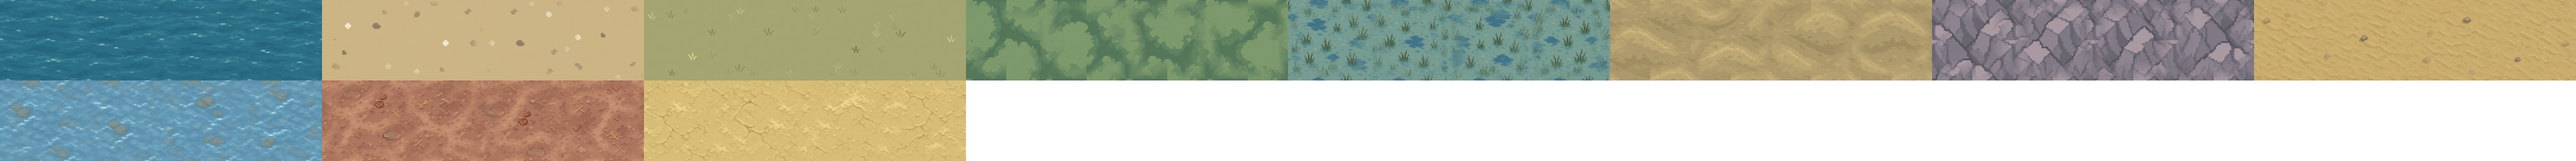
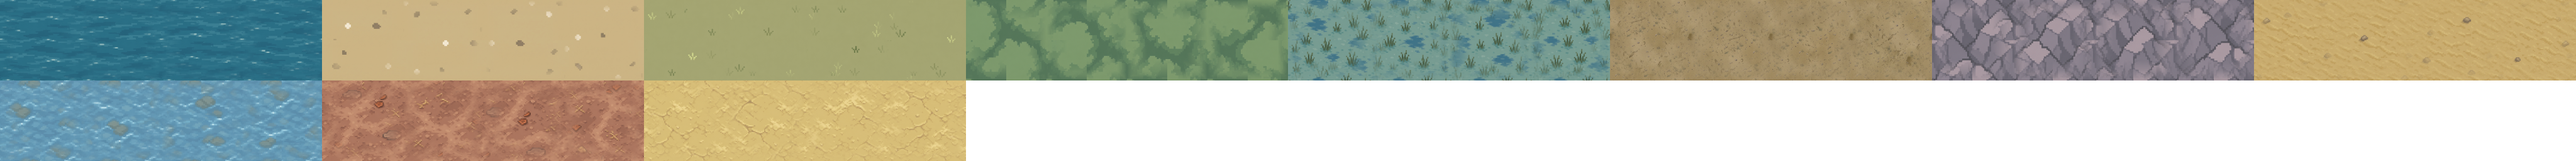
Hills in olive, and no cliffs in the river
Two things, both found by rendering a real generated map rather than reasoning
about one.

**The hills swatch is olive now.** Both earlier candidates were good paintings
that read as sand: the better of them sat 19 from `desert` in RGB, and under
about 25 two grounds stop being tellable apart. The fix was not the art -- it
was the palette. `docs/art-brief.md` puts hills at #ab9d7c and desert at
#bea47b, which are 20 apart, already inside that range. A builder step that
pulled every ground toward its declared base was written, measured and thrown
away for exactly that reason: it converged them faster.

So the ask went back as one word, olive rather than ochre, and the new swatch
is 50 from desert where the old was 19. Seamless at 0.68x, and it keeps more
detail through the 16:1 downsample than either predecessor. `hills/settlement`
is 24, marginally inside the threshold, but they differ by hue -- olive against
reddish clay -- and a settlement tile always has a hut standing on it.

**And a real bug the mock exposed.** Rivers are carved after the elevation
field is laid down, so a river keeps the height of the ground it cut and its
neighbours do not. Height alone therefore asked for a rock face along every
bank, and between two river tiles at different heights, *inside the water*. On
Lothal that was **83 of 234 faces touching water**, which turned a river valley
into something that read as a stone-lined canal.
[…]

Changed region(s): [[0.625, 0.0, 0.75, 0.5]]

diff --git a/test/scenePlan.test.ts b/test/scenePlan.test.ts
@@ -11,7 +11,15 @@ import { describe, expect, it } from 'vitest';
 import { buildFieldMap } from '../src/world/fieldMap';
 import { fieldMaps } from '../src/content/places';
 import { planScene, planHuts, planOverdraw, SWAY_PERIOD } from '../src/game/scenePlan';
-import { ROW_SLOT, depthFor, featureIsUnderfoot, overdrawIsUnderfoot } from '../src/game/frames';
+import {
+  ROW_SLOT,
+  depthFor,
+  featureIsUnderfoot,
+  overdrawIsUnderfoot,
+  EDGE_ORDER,
+  EDGE_STEP,
+  EDGE_VARIANTS
+} from '../src/game/frames';
 import { band } from '../src/world/classify';
 
 const worlds = fieldMaps.map((map) => ({ id: map.id, built: buildFieldMap(map, {}) }));
@@ -378,6 +386,34 @@ describe('a treeline stands where the forest stops', () => {
         expect(t.depth, `${id}: treeline at ${key(t)} draws over the walker`).toBeLessThan(
           depthFor(t.y, ROW_SLOT.walker)
         );
+      }
+    }
+  });
+});
+
+describe('a cliff never fences in the water', () => {
+  it('draws no rock face where either side is water', () => {
+    // Rivers are carved after the elevation field is laid down, so a river keeps the height of the
+    // ground it cut through and its neighbours do not. Height alone therefore asked for a rock face
+    // along every bank -- and, between two river tiles at different heights, inside the water. On a
+    // real map that was 83 of 234 faces, and it turned a valley into a stone-lined canal.
+    const WATER = new Set(['sea', 'river']);
+    for (const { id, built } of worlds) {
+      const { tiles, width, height } = built.world;
+      for (const c of planScene(built).filter((p) => p.sheet === 'cliffs')) {
+        expect(WATER.has(tiles[c.y]![c.x]!.biome), `${id}: cliff standing in water at ${key(c)}`).toBe(false);
+        // The edge this particular frame is for, not every neighbour the tile has. A first version
+        // checked all four and failed on a hills tile that has a river to one side and correctly
+        // draws its face on another -- the placement was right and the assertion was not.
+        const edge = EDGE_ORDER[Math.floor(c.frame / EDGE_VARIANTS)]!;
+        const { dx, dy } = EDGE_STEP[edge];
+        const nx = c.x + dx;
+        const ny = c.y + dy;
+        if (nx < 0 || ny < 0 || nx >= width || ny >= height) continue;
+        expect(
+          WATER.has(tiles[ny]![nx]!.biome),
+          `${id}: cliff at ${key(c)} drops onto water to the ${edge}`
+        ).toBe(false);
       }
     }
   });

diff --git a/src/game/frames.ts b/src/game/frames.ts
@@ -266,8 +266,26 @@ export function blends(here: BiomeId, there: BiomeId): boolean {
  * edge of. Unlike the torn blend, which both tiles emit so neither ends up holding a straight line,
  * exactly one side draws a cliff: two would put a rock face at the top *and* the bottom of the same
  * drop.
+ *
+ * **Water is excluded, and leaving it in was a real bug.** Rivers are carved after the elevation
+ * field is laid down, so a river running through upland keeps the height of the ground it cut and
+ * its neighbours do not. Height alone therefore said "draw a rock face here" along every bank --
+ * and, where a river ran between two of its own tiles at different heights, *inside the water*.
+ * Rendered on a real map, **83 of 234 cliff faces touched water**, which turned a river valley into
+ * something that read as a stone-lined canal.
+ *
+ * `blends` above already refuses the mirror image of this for the mirror reason: a shoreline is
+ * where the land stops, and bleeding two grounds across it turns a definite edge into a vague one.
+ * A cliff makes the opposite mistake, putting a hard built-looking edge where the water already
+ * draws its own.
  */
-export function cliffAt(hereBand: number, thereBand: number): boolean {
+export function cliffAt(
+  hereBand: number,
+  thereBand: number,
+  here: BiomeId,
+  there: BiomeId
+): boolean {
+  if (WATER.has(here) || WATER.has(there)) return false;
   return hereBand > thereBand;
 }
 

diff --git a/src/game/scenePlan.ts b/src/game/scenePlan.ts
@@ -178,7 +178,8 @@ export function planCliffs(world: FieldMapWorld['world']): Placement[] {
   const out: Placement[] = [];
   for (let y = 0; y < world.height; y += 1) {
     for (let x = 0; x < world.width; x += 1) {
-      const here = band(world.tiles[y]![x]!.elevation);
+      const tile = world.tiles[y]![x]!;
+      const here = band(tile.elevation);
       if (here === 0) continue; // nothing to fall away from
       for (const edge of EDGE_ORDER) {
         const { dx, dy } = EDGE_STEP[edge];
@@ -187,7 +188,8 @@ export function planCliffs(world: FieldMapWorld['world']): Placement[] {
         // A map edge is not a cliff. The world simply stops there, and drawing a face along it
         // would fence the player in with a wall that has nothing on the other side.
         if (nx < 0 || ny < 0 || nx >= world.width || ny >= world.height) continue;
-        if (!cliffAt(here, band(world.tiles[ny]![nx]!.elevation))) continue;
+        const neighbour = world.tiles[ny]![nx]!;
+        if (!cliffAt(here, band(neighbour.elevation), tile.biome, neighbour.biome)) continue;
         out.push({
           sheet: 'cliffs',
           frame: cliffFrame(edge, tileHash(world.seed, x, y, `cliff-${edge}`)),
